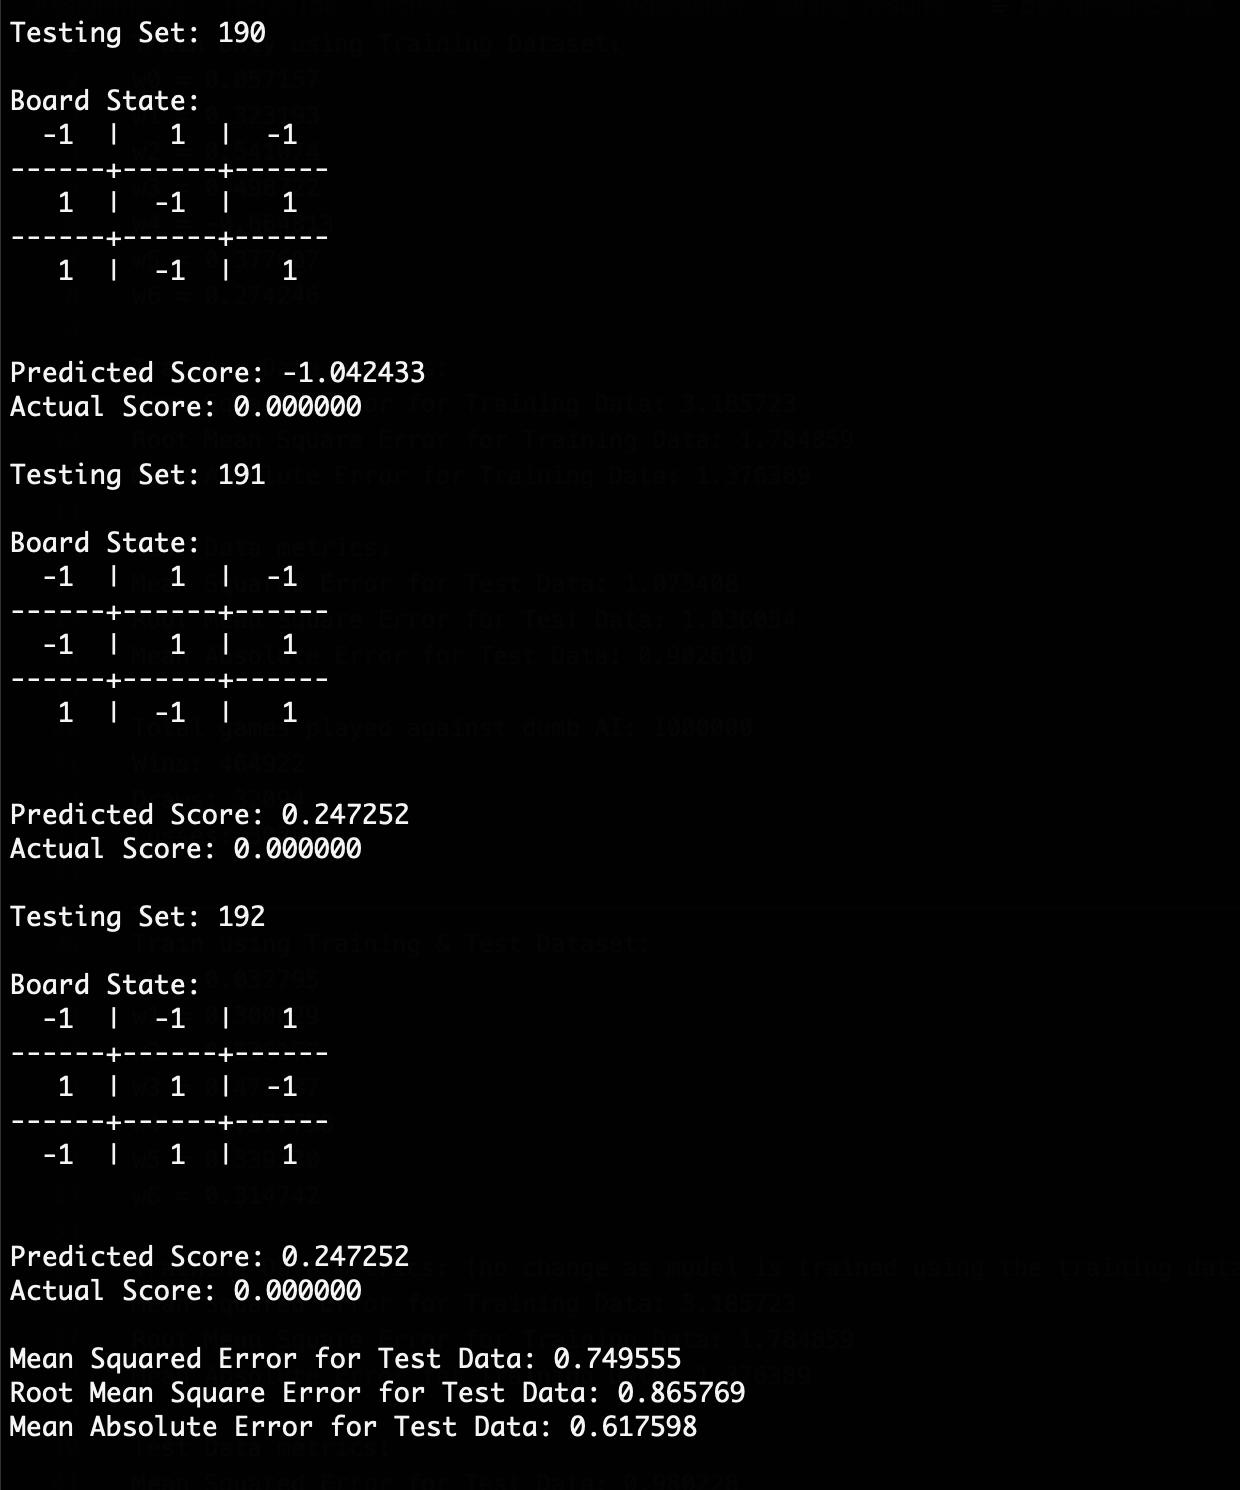
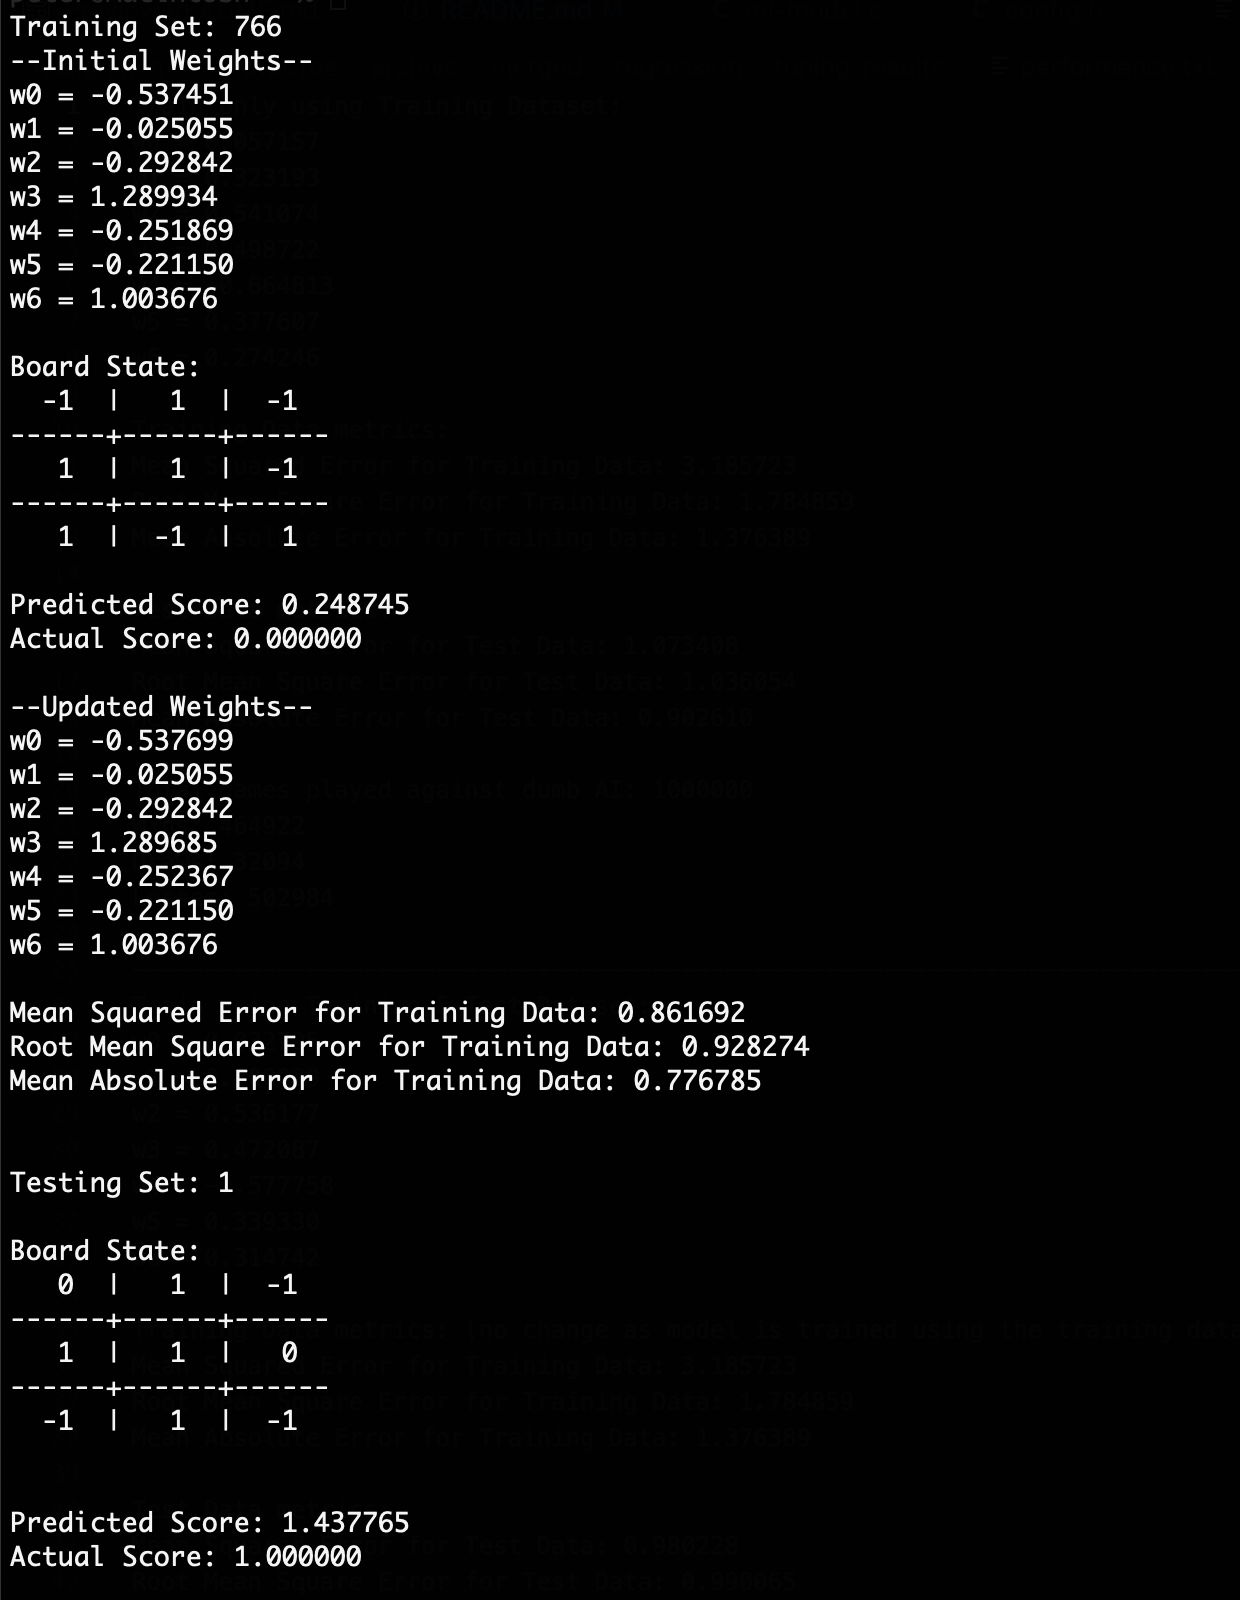
readme updates again

Changed region(s): [[0.0, 0.0, 0.6435, 0.9879]]

diff --git a/train-ml/README.md b/train-ml/README.md
@@ -18,7 +18,40 @@ This program measures the performance of the regression model on the training an
   - Refers to the mean of the absolute values of the individual estimated score errors
 - Game results against simulated random computer player (1,000,000 games)
   - Computes the total number of wins, draws, and losses by the regression model against an emulated computer player that makes a random move for each turn
+### Results
+---
+After training and optimising the model, the following set of optimal weights are derived:
+```
+w0 = -0.537699
+w1 = -0.025055
+w2 = -0.292842
+w3 = 1.289685
+w4 = -0.252367
+w5 = -0.221150
+w6 = 1.003676
+``` 
+Mean Squared Error for Training Data: 0.861692
+Root Mean Square Error for Training Data: 0.928274
+Mean Absolute Error for Training Data: 0.776785
 
+Mean Squared Error for Test Data: 0.749555
+Root Mean Square Error for Test Data: 0.865769
+Mean Absolute Error for Test Data: 0.617598
+### Program Files
+---
+```
+README.md (this file)
+
+docs/ (contains images)
+
+dataset/ (contains dataset)
+
+config.h (configuration file)
+
+ml-model.c (main program)
+
+weights.txt (contains optimal model weights)
+```
 ### Program Usage
 ---
 1. Download source code (no external libraries are required).
@@ -31,7 +64,7 @@ This program measures the performance of the regression model on the training an
     `./ml-model train ` <br><br>
     *\*By default, the code for running the simulated games against a random computer player to evaluate the model's performance is commented out, as it may take a while to run 1,000,000 games!*
 
-#### Sample program execution previews
+### Sample program execution previews
 ---
 Normal Usage<br>
 ![Normal Usage](docs/normal-game.png)
